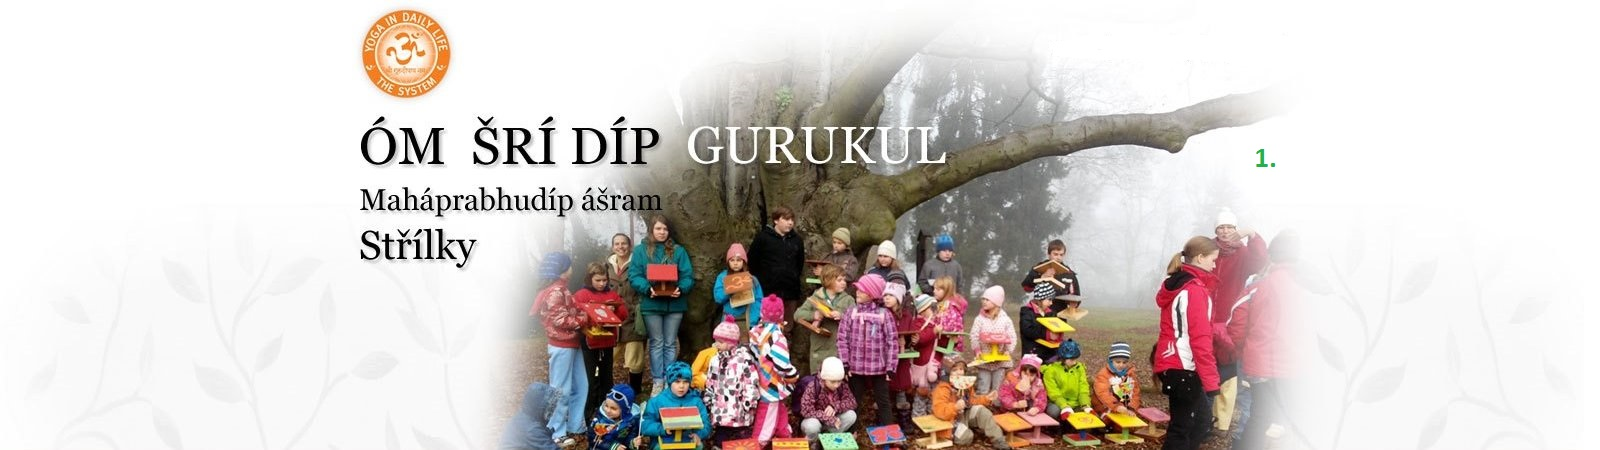
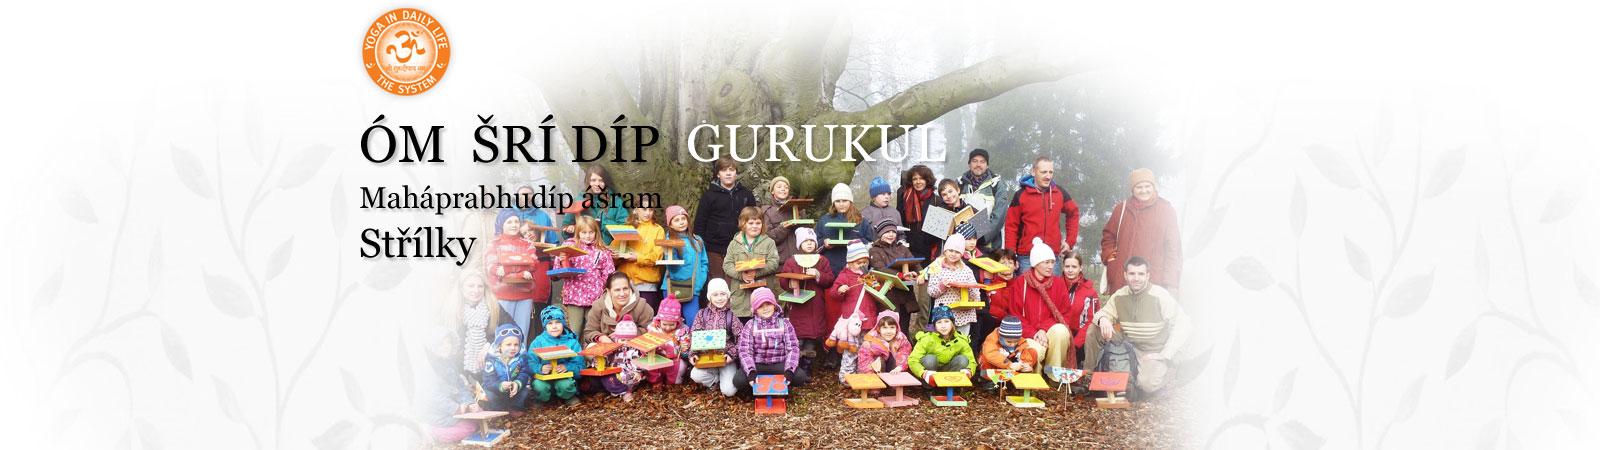
nový header

diff --git a/js/resolution-test.js b/js/resolution-test.js
@@ -1,20 +1,11 @@
 function adjustStyle(width) {
     width = parseInt(width);
     if ((width < 400)) {
-        $("#size-stylesheet").attr("href", "../css/narrow.css");
-
-        $("#img1").attr("src", "../img/slide/wide/1.jpg");
-        
+        $("#size-stylesheet").attr("href", "../css/narrow.css");        
     } else if ((width >= 401) && (width < 800)) {
-        $("#size-stylesheet").attr("href", "../css/middle.css");
-
-        $("#img1").attr("src", "../img/slide/wide/2.jpg");
-        
+        $("#size-stylesheet").attr("href", "../css/middle.css");        
     } else {
-        $("#size-stylesheet").attr("href", "../css/wide.css");
-
-        $("#img1").attr("src", "../img/slide/wide/3.jpg");
-        
+        $("#size-stylesheet").attr("href", "../css/wide.css");        
     }
     
 }

diff --git a/cz/index.html b/cz/index.html
@@ -52,6 +52,9 @@
                         <li>
                             <img src="../img/slide/wide/3.jpg" />
                         </li>
+                        <li>
+                            <img src="../img/slide/wide/4.jpg" />
+                        </li>
                     </ul>
                 </div>
                 <div class="head-lista-back">
